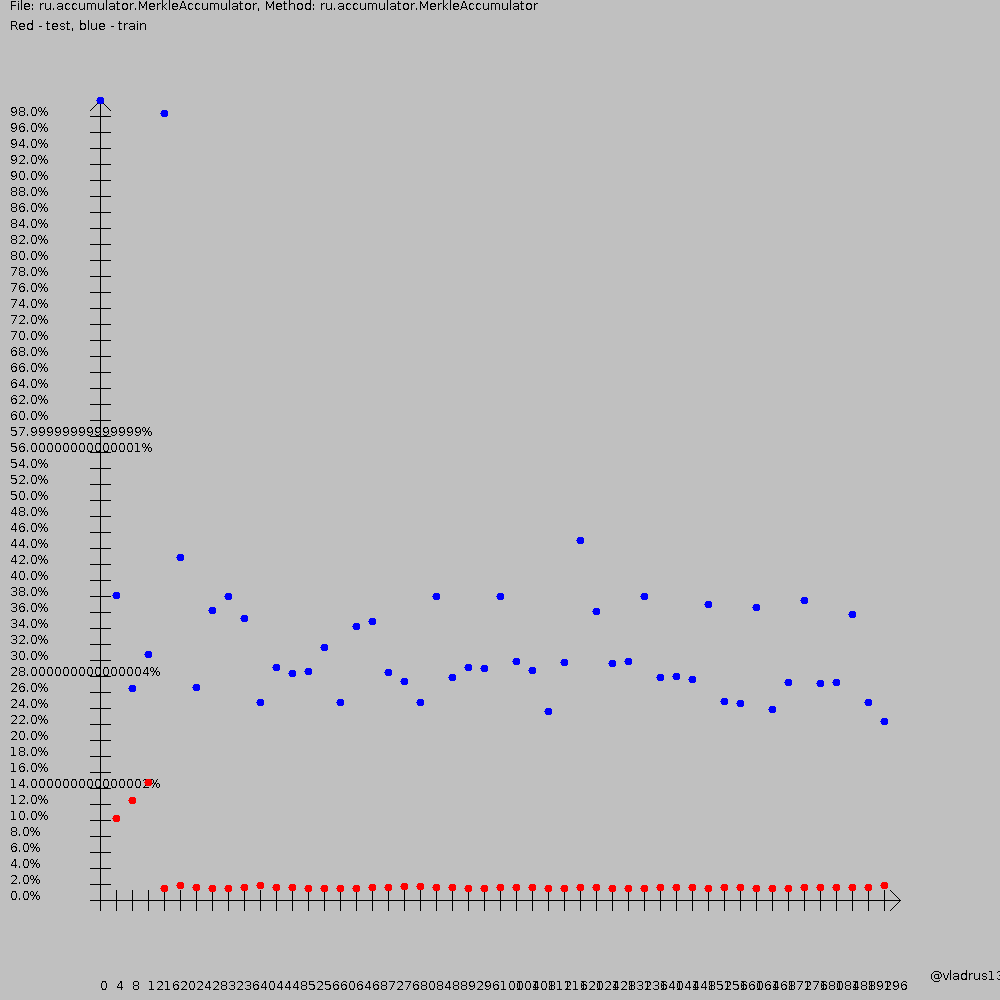
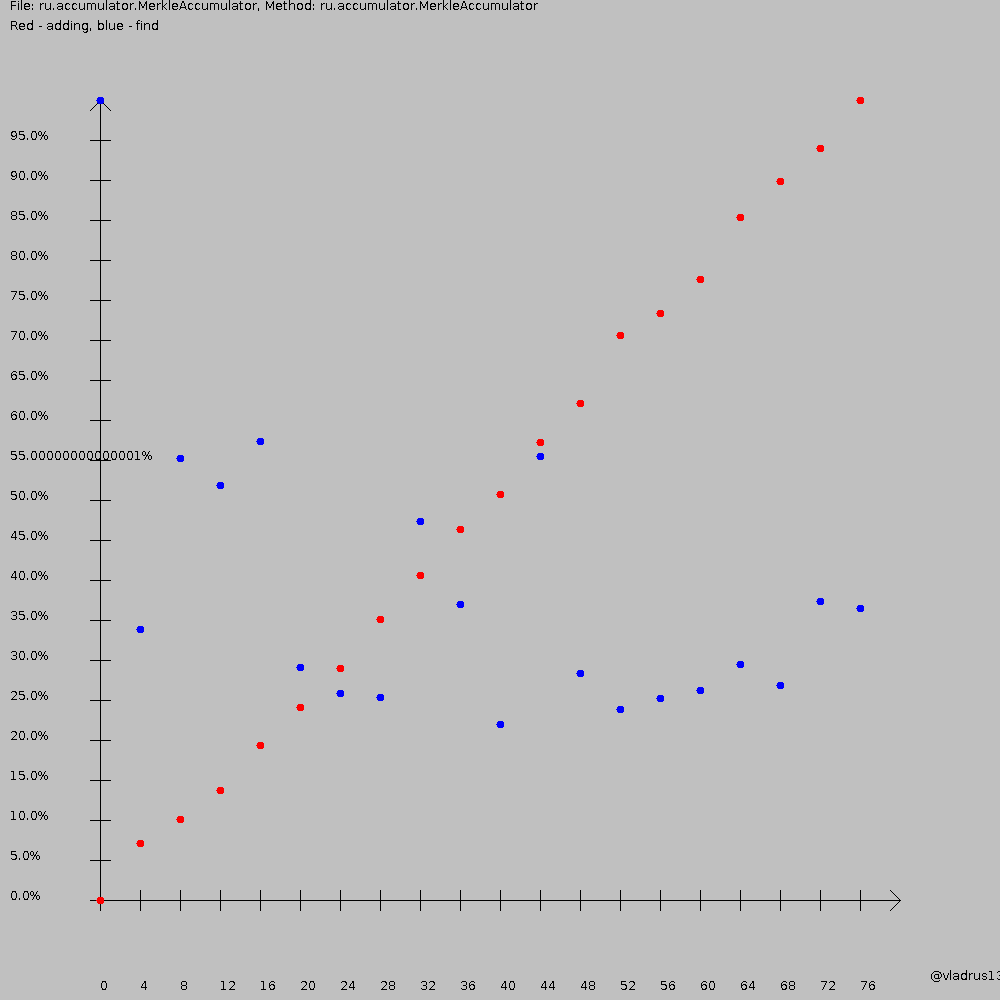
Fixed Performance Tests

diff --git a/src/main/java/ru/draw/PerformanceLauncher.java b/src/main/java/ru/draw/PerformanceLauncher.java
@@ -14,7 +14,7 @@ public class PerformanceLauncher {
     private static Random random;
 
     private static final int countElements = 1000000;
-    private static final int step = 20000;
+    private static final int step = 50000;
 
     public static byte[] generateRandomByte(long size) {
         byte[] returned = new byte[(int) size];
@@ -33,27 +33,27 @@ public class PerformanceLauncher {
             int it = 0;
             for (int elements = 1; elements < countElements; elements += step) {
                 accumulator.clear();
+                long time = System.nanoTime() / 10;
                 for (int i = 0; i < elements; i++) {
                     accumulator.add(generateRandomByte(10));
                 }
-                long time = System.nanoTime();
                 byte[] end = generateRandomByte(10);
                 accumulator.add(end);
-                time = System.nanoTime() - time;
+                time = System.nanoTime() / 10 - time;
                 resultAdding.add(new Point(it  * pointStep, (int) time));
-                time = System.nanoTime();
+                time = System.nanoTime() / 10;
                 accumulator.verify(accumulator.size(), accumulator.size(), accumulator.prove(accumulator.size()), end);
-                time = System.nanoTime() - time;
+                time = System.nanoTime() / 10 - time;
                 resultFind.add(new Point(it  * pointStep, (int) time));
                 it++;
             }
             int max = resultAdding.stream().mapToInt(element -> element.y).max().orElse(0);
             for (Point point : resultAdding) {
-                point.y = point.y * 800 / max;
+                point.y = (int) (((long) point.y) * 800 / max);
             }
             max = resultFind.stream().mapToInt(element -> element.y).max().orElse(0);
             for (Point point : resultFind) {
-                point.y = point.y * 800 / max;
+                point.y = (int) (((long) point.y) * 800 / max);
             }
             ImageSaver.save(ImageCreator.draw(accumulatorName, accumulatorName, resultAdding, resultFind), accumulatorName);
         }

diff --git a/src/main/java/ru/draw/ImageCreator.java b/src/main/java/ru/draw/ImageCreator.java
@@ -74,7 +74,7 @@ public class ImageCreator {
                 }
         );
         graphics.drawString(String.format("File: %s, Method: %s", file, method), 10, 10);
-        graphics.drawString("Red - test, blue - train", 10, 30);
+        graphics.drawString("Red - adding, blue - find", 10, 30);
         graphics.drawString("@vladrus13", 930, 980);
         graphics.setColor(Color.RED);
         for (Point point : test) {
